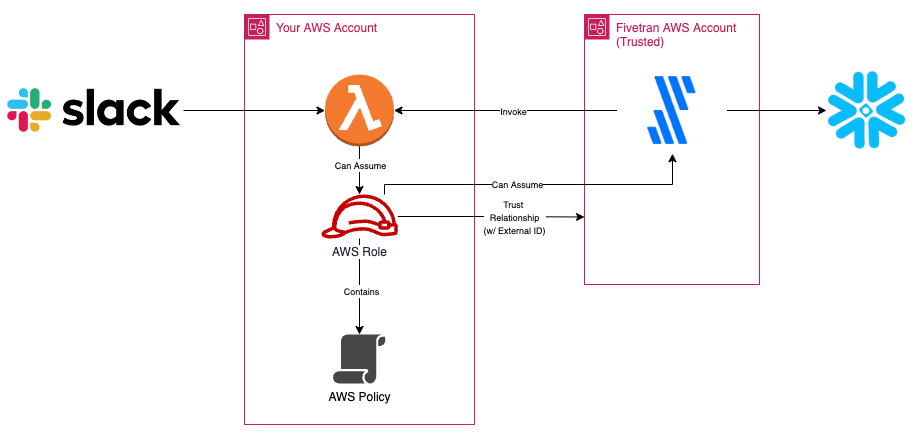
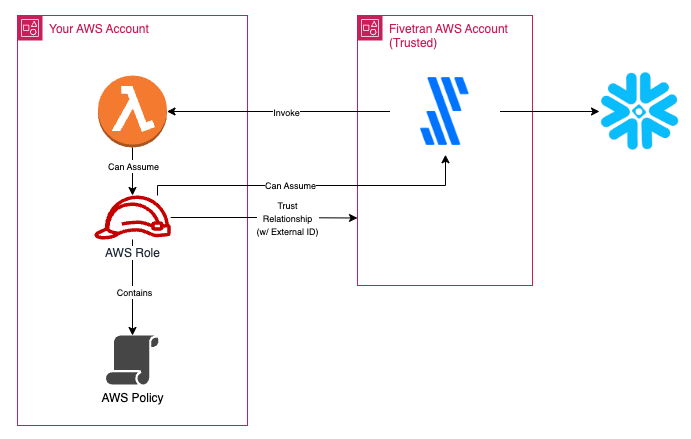
updating code

diff --git a/aws/lambda/function.py b/aws/lambda/function.py
@@ -1,48 +1,102 @@
-from slack_sdk import WebClient
-from slack_sdk.http_retry import RetryHandler
+import finnhub
+import json
+from candle import Candle
+from datetime import datetime, timedelta
+from pathlib import Path
+from typing import List, Tuple
 
-def get_client(token):
-   retry_handler = RetryHandler(max_retry_count=5)
-   return WebClient(token=token, retry_handlers=[retry_handler])
+HISTORICAL_START_DATE = "2023-06-01"
 
+def get_client(api_key: str) -> finnhub.Client:
+    return finnhub.Client(api_key=api_key)
+
+def add_day(dt: str) -> str:
+    date = datetime.strptime(dt, "%Y-%m-%d")
+    new_date = date + timedelta(days=1)
+
+    return new_date.strftime("%Y-%m-%d")
+
+def dt_gte_today(dt: str) -> bool:
+    current_date = datetime.now().strftime('%Y-%m-%d')
+
+    return dt >= current_date
+
+def dt_to_unix(dt: str) -> Tuple[int, int]:
+    date = datetime.strptime(dt, "%Y-%m-%d")
+    start_timestamp = date.timestamp()
+    end_timestamp = start_timestamp + 86400
+
+    return int(start_timestamp), int(end_timestamp)
+
+def eval_state(req_state: dict) -> Tuple[str, bool]:
+    state = {
+        "cursor": HISTORICAL_START_DATE
+    }
+    hasMore = True
+
+    if req_state.get("cursor"):
+        state["cursor"] = add_day(req_state.get("cursor"))
+        if dt_gte_today(state["cursor"]):
+            hasMore = False
+    
+    return state, hasMore
+
+def get_candles(symbol: str, dt: str, client: finnhub.Client) -> List[dict]:
+    _from, to = dt_to_unix(dt=dt)
+    data = client.stock_candles(symbol=symbol, resolution="D", _from=_from, to=to)
+    timestamps = data.get("t")
+    candles = []
+
+    if timestamps:
+        for i in range(0, len(timestamps)):
+            candles.append(
+                Candle(
+                    symbol=symbol,
+                    close=data.get("c")[i],
+                    high=data.get("h")[i],
+                    low=data.get("l")[i],
+                    open=data.get("o")[i],
+                    status=data.get("s"),
+                    ts=data.get("t")[i],
+                    volume=data.get("v")[i],
+                ).json
+            )
+    
+    return candles
+
+def get_symbols(location: str) -> List[str]:
+    s = Path(location)
+
+    if s.exists():
+        return json.loads(s.read_text())
+    
 def lambda_handler(request, context):
-   # Extract token from the Fivetran request object
-   token = request['secrets']['apiKey']
+    # Extract state from the Fivetran request object
+    req_state = request["state"]
 
-   # Get user objects from Slack
-   users = get_users(token=token)
+    # Evaluate the state object
+    new_state, hasMore = eval_state(req_state=req_state)
 
-   # Construct and send appropriate JSON response back to Fivetran
-   return {
-       "state": {},
-       "schema" : {
-           "users" : {
-               "primary_key" : ["id"]
-           }
-       },
-       "insert": {
-           "users": users
-       },
-       "hasMore" : False
-   }
+    # Extract token from the Fivetran request object and create Finnhub client
+    api_key = request["secrets"]["apiKey"]
+    client = get_client(api_key=api_key)
 
-def get_users(token):
-   client = get_client(token=token)
-   response = client.users_list()
-   members = response.get('members')
-   users = []
+    # Get required symbols
+    symbols = get_symbols("symbols.json")
+    candles = []
 
-   # Extracting only certain user attributes
-   for member in members:
-       users.append({
-           "id": member["id"],
-           "team_id": member.get("team_id", ""),
-           "name": member.get("name", ""),
-           "real_name": member.get("real_name", ""),
-           "is_bot": member.get("is_bot", "")
-       })
+    # Get candles for each symbol from Finnhub API
+    for symbol in symbols:
+        candles.extend(get_candles(symbol=symbol, dt=new_state["cursor"], client=client))
 
-   return users
+    # Construct and send appropriate JSON response back to Fivetran
+    return {
+        "state": new_state,
+        "insert": {
+            "candles": candles
+        },
+        "hasMore" : hasMore
+    }
 
 if __name__ == "__main__":
     print(lambda_handler("", ""))

diff --git a/aws/lambda/candle.py b/aws/lambda/candle.py
@@ -1,0 +1,17 @@
+from dataclasses import dataclass, asdict
+
+@dataclass
+class Candle:
+
+    symbol: str
+    close: float
+    high: float
+    low: float
+    open: float
+    status: str
+    ts: int
+    volume: int
+
+    @property
+    def json(self):
+        return asdict(self)

diff --git a/README.md b/README.md
@@ -11,21 +11,19 @@
     - Create and modify IAM roles and policies
     - Create S3 buckets
     - Write to a pre-defined terraform state S3 bucket (if remote terraform state is desired)
-- Must have a Snowflake account with a Snowflake user (and password) with permissions (see sample setup script):
-    - USAGE on a warehouse for executing queries
-    - Granted a role that has permissions to create users/warehouses/databases
+- Must have a Snowflake account with a Fivetran database and user granted appropriate permissions (see sample setup script):
 - Must have a Fivetran account and an associated API key/secret pair
-- Must have a Slack account and an associated token with permissions to the resources that will be pulled by the lambda function
 
 ### Sample Snowflake Setup Script
 
 ```sql
-CREATE USER TERRAFORM_USER PASSWORD='<password>';
-CREATE ROLE TERRAFORM_ROLE;
-CREATE WAREHOUSE TERRAFORM_WH;
-GRANT ROLE ACCOUNTADMIN TO ROLE TERRAFORM_ROLE;
-GRANT ROLE TERRAFORM_ROLE TO USER TERRAFORM_USER;
-GRANT ALL PRIVILEGES ON WAREHOUSE TERRAFORM_WH TO ROLE TERRAFORM_ROLE;
+create database if not exists FIVETRAN_DB;
+create warehouse if not exists FIVETRAN_WH with warehouse_size='XSMALL';
+create user FIVETRAN_USER password='<password>';
+create role FIVETRAN_ROLE;
+grant ALL PRIVILEGES on database FIVETRAN_DB to role FIVETRAN_ROLE;
+grant USAGE on warehouse FIVETRAN_WH to role FIVETRAN_ROLE;
+grant role FIVETRAN_ROLE to user FIVETRAN_USER;
 ```
 
 ## Usage
@@ -61,7 +59,7 @@ SNOWFLAKE_REGION="us-east-2.aws"
 SNOWFLAKE_WAREHOUSE="TERRAFORM_WH"
 SNOWFLAKE_ROLE="ACCOUNTADMIN"
 
-SLACK_TOKEN="token"
+API_TOKEN="token"
 ```
 
 ### Execution and Deployment
